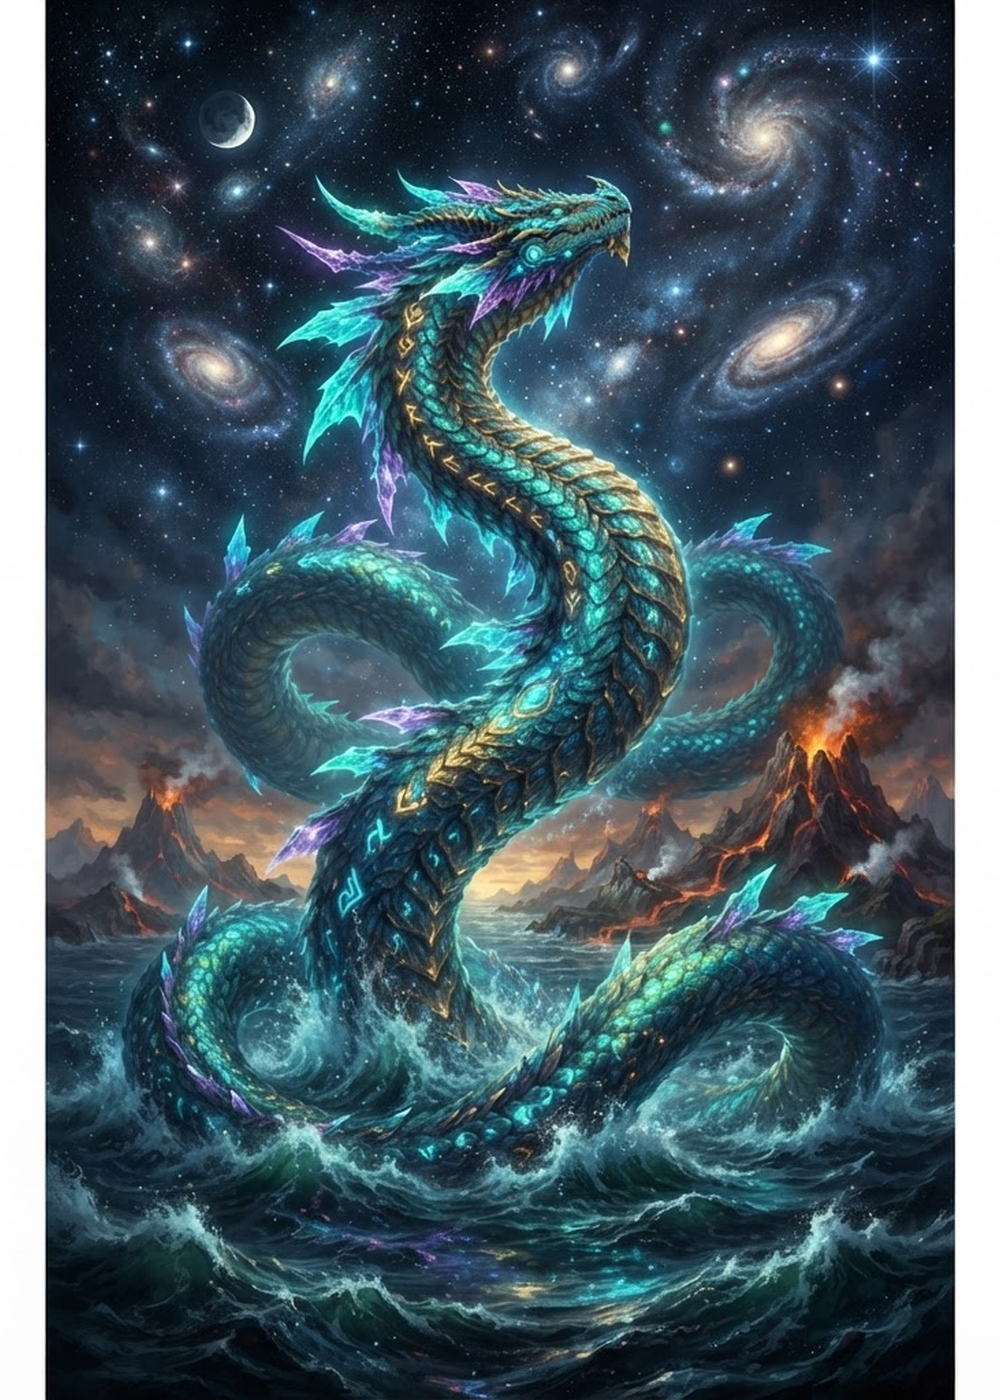
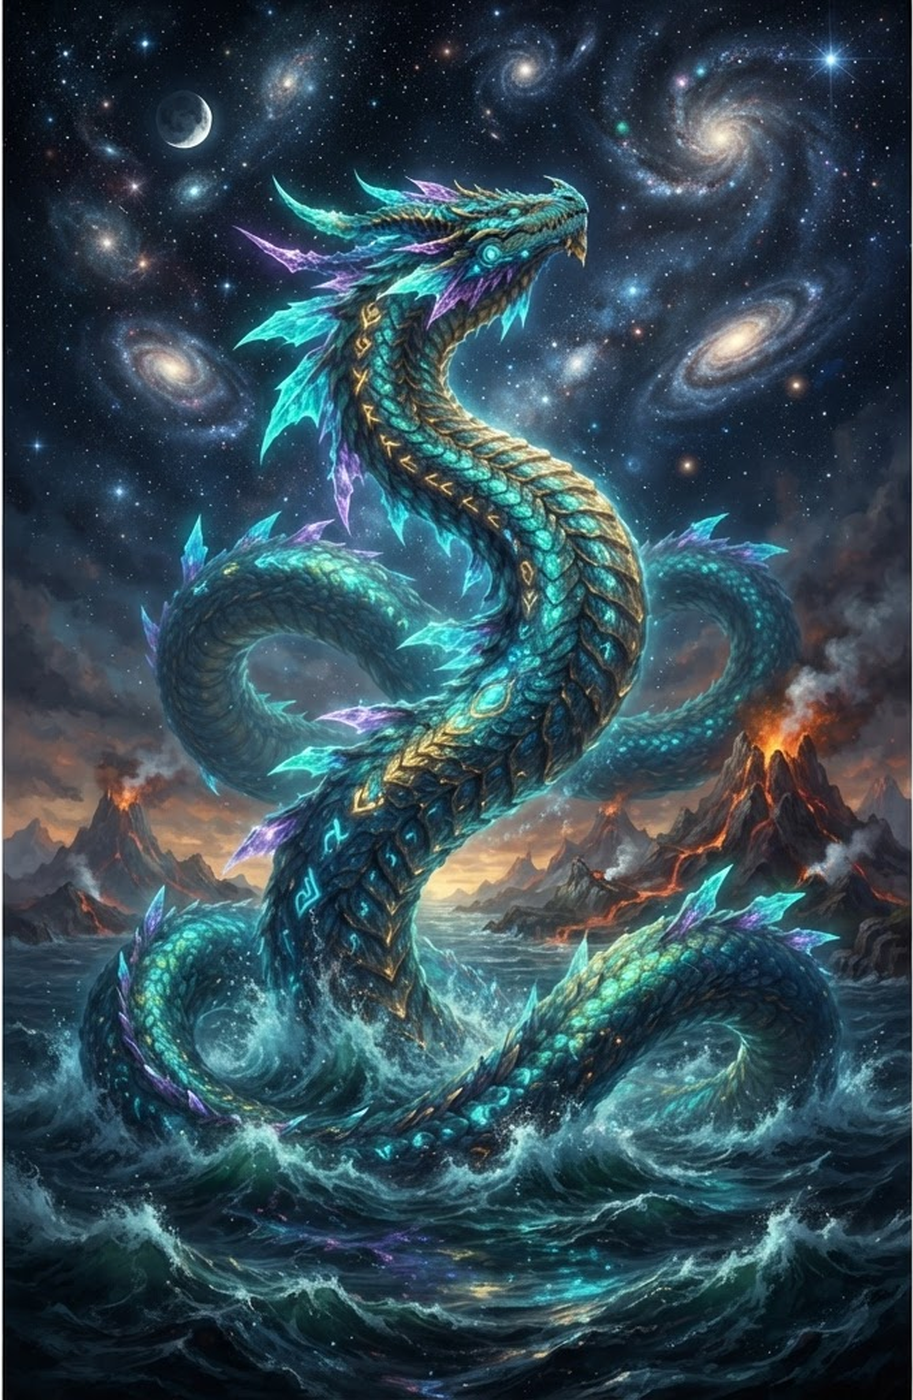
Trim white borders from mythic and chromatic cover art

diff --git a/app/globals.css b/app/globals.css
@@ -531,19 +531,19 @@
 }
 
 .pack-set-card-chromatic .pack-set-image {
-  transform: scale(1.14);
+  transform: scale(1.02);
 }
 
 .pack-set-card-chromatic:hover .pack-set-image {
-  transform: scale(1.17);
+  transform: scale(1.05);
 }
 
 .pack-set-card-mythic .pack-set-image {
-  transform: scale(1.1);
+  transform: scale(1.02);
 }
 
 .pack-set-card-mythic:hover .pack-set-image {
-  transform: scale(1.13);
+  transform: scale(1.05);
 }
 
 .pack-set-card-mythic::before {
